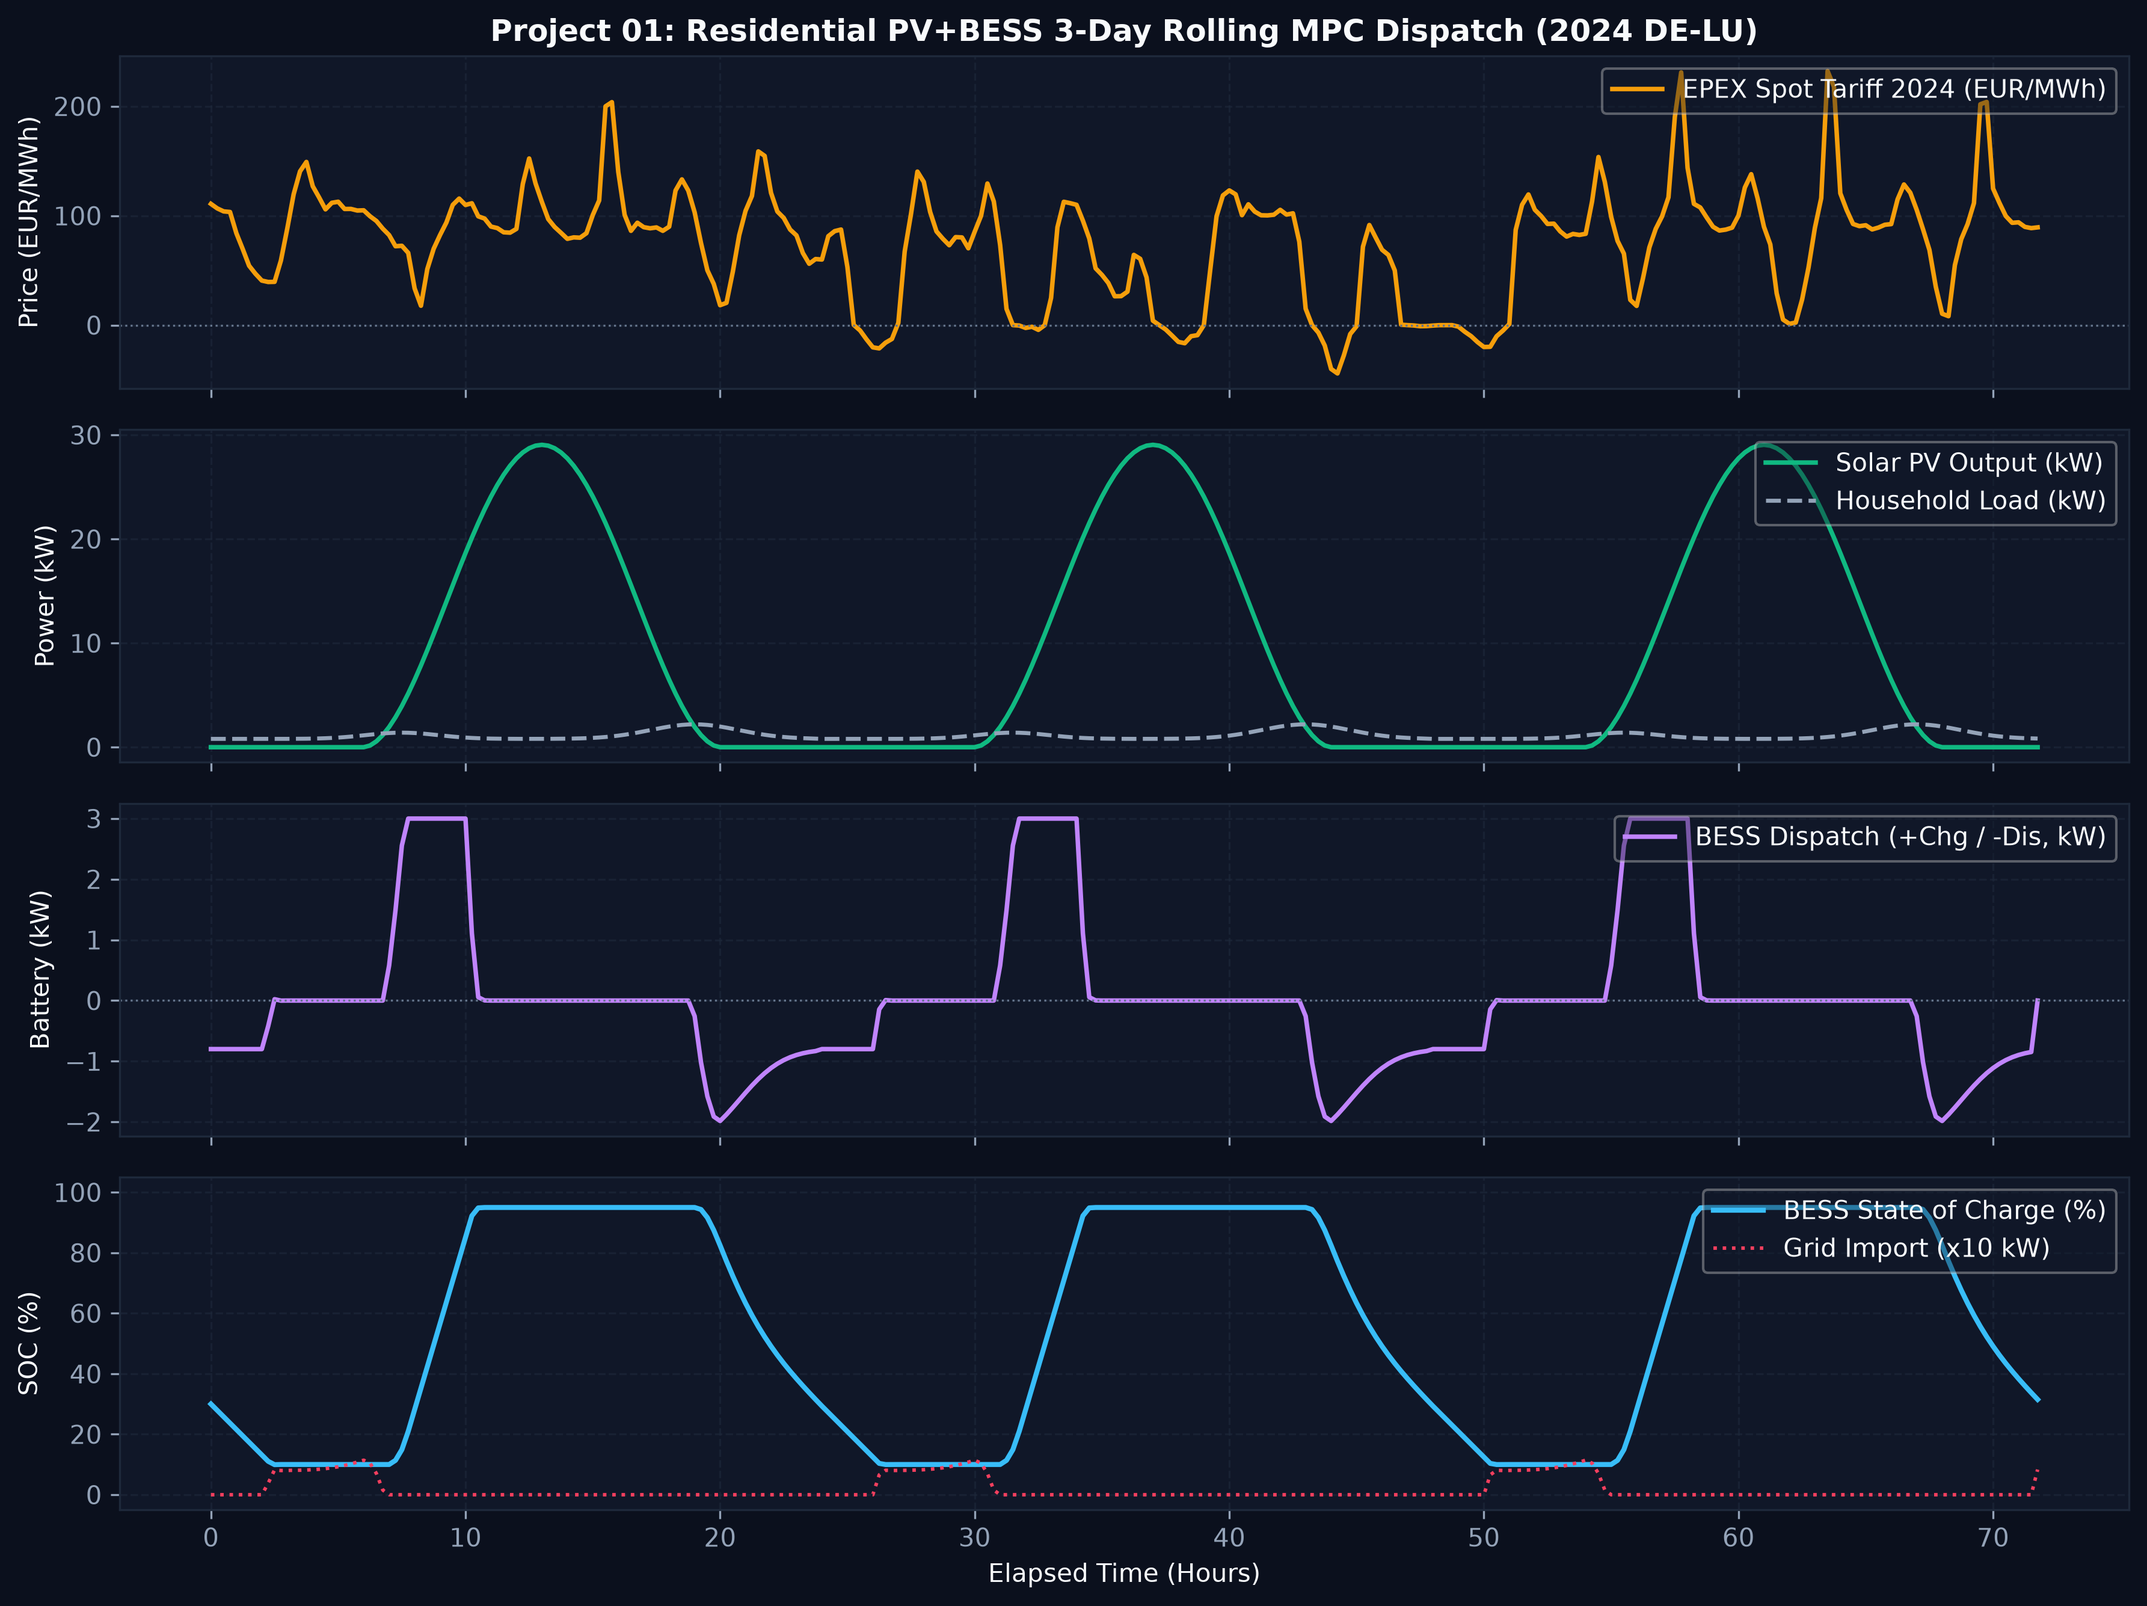
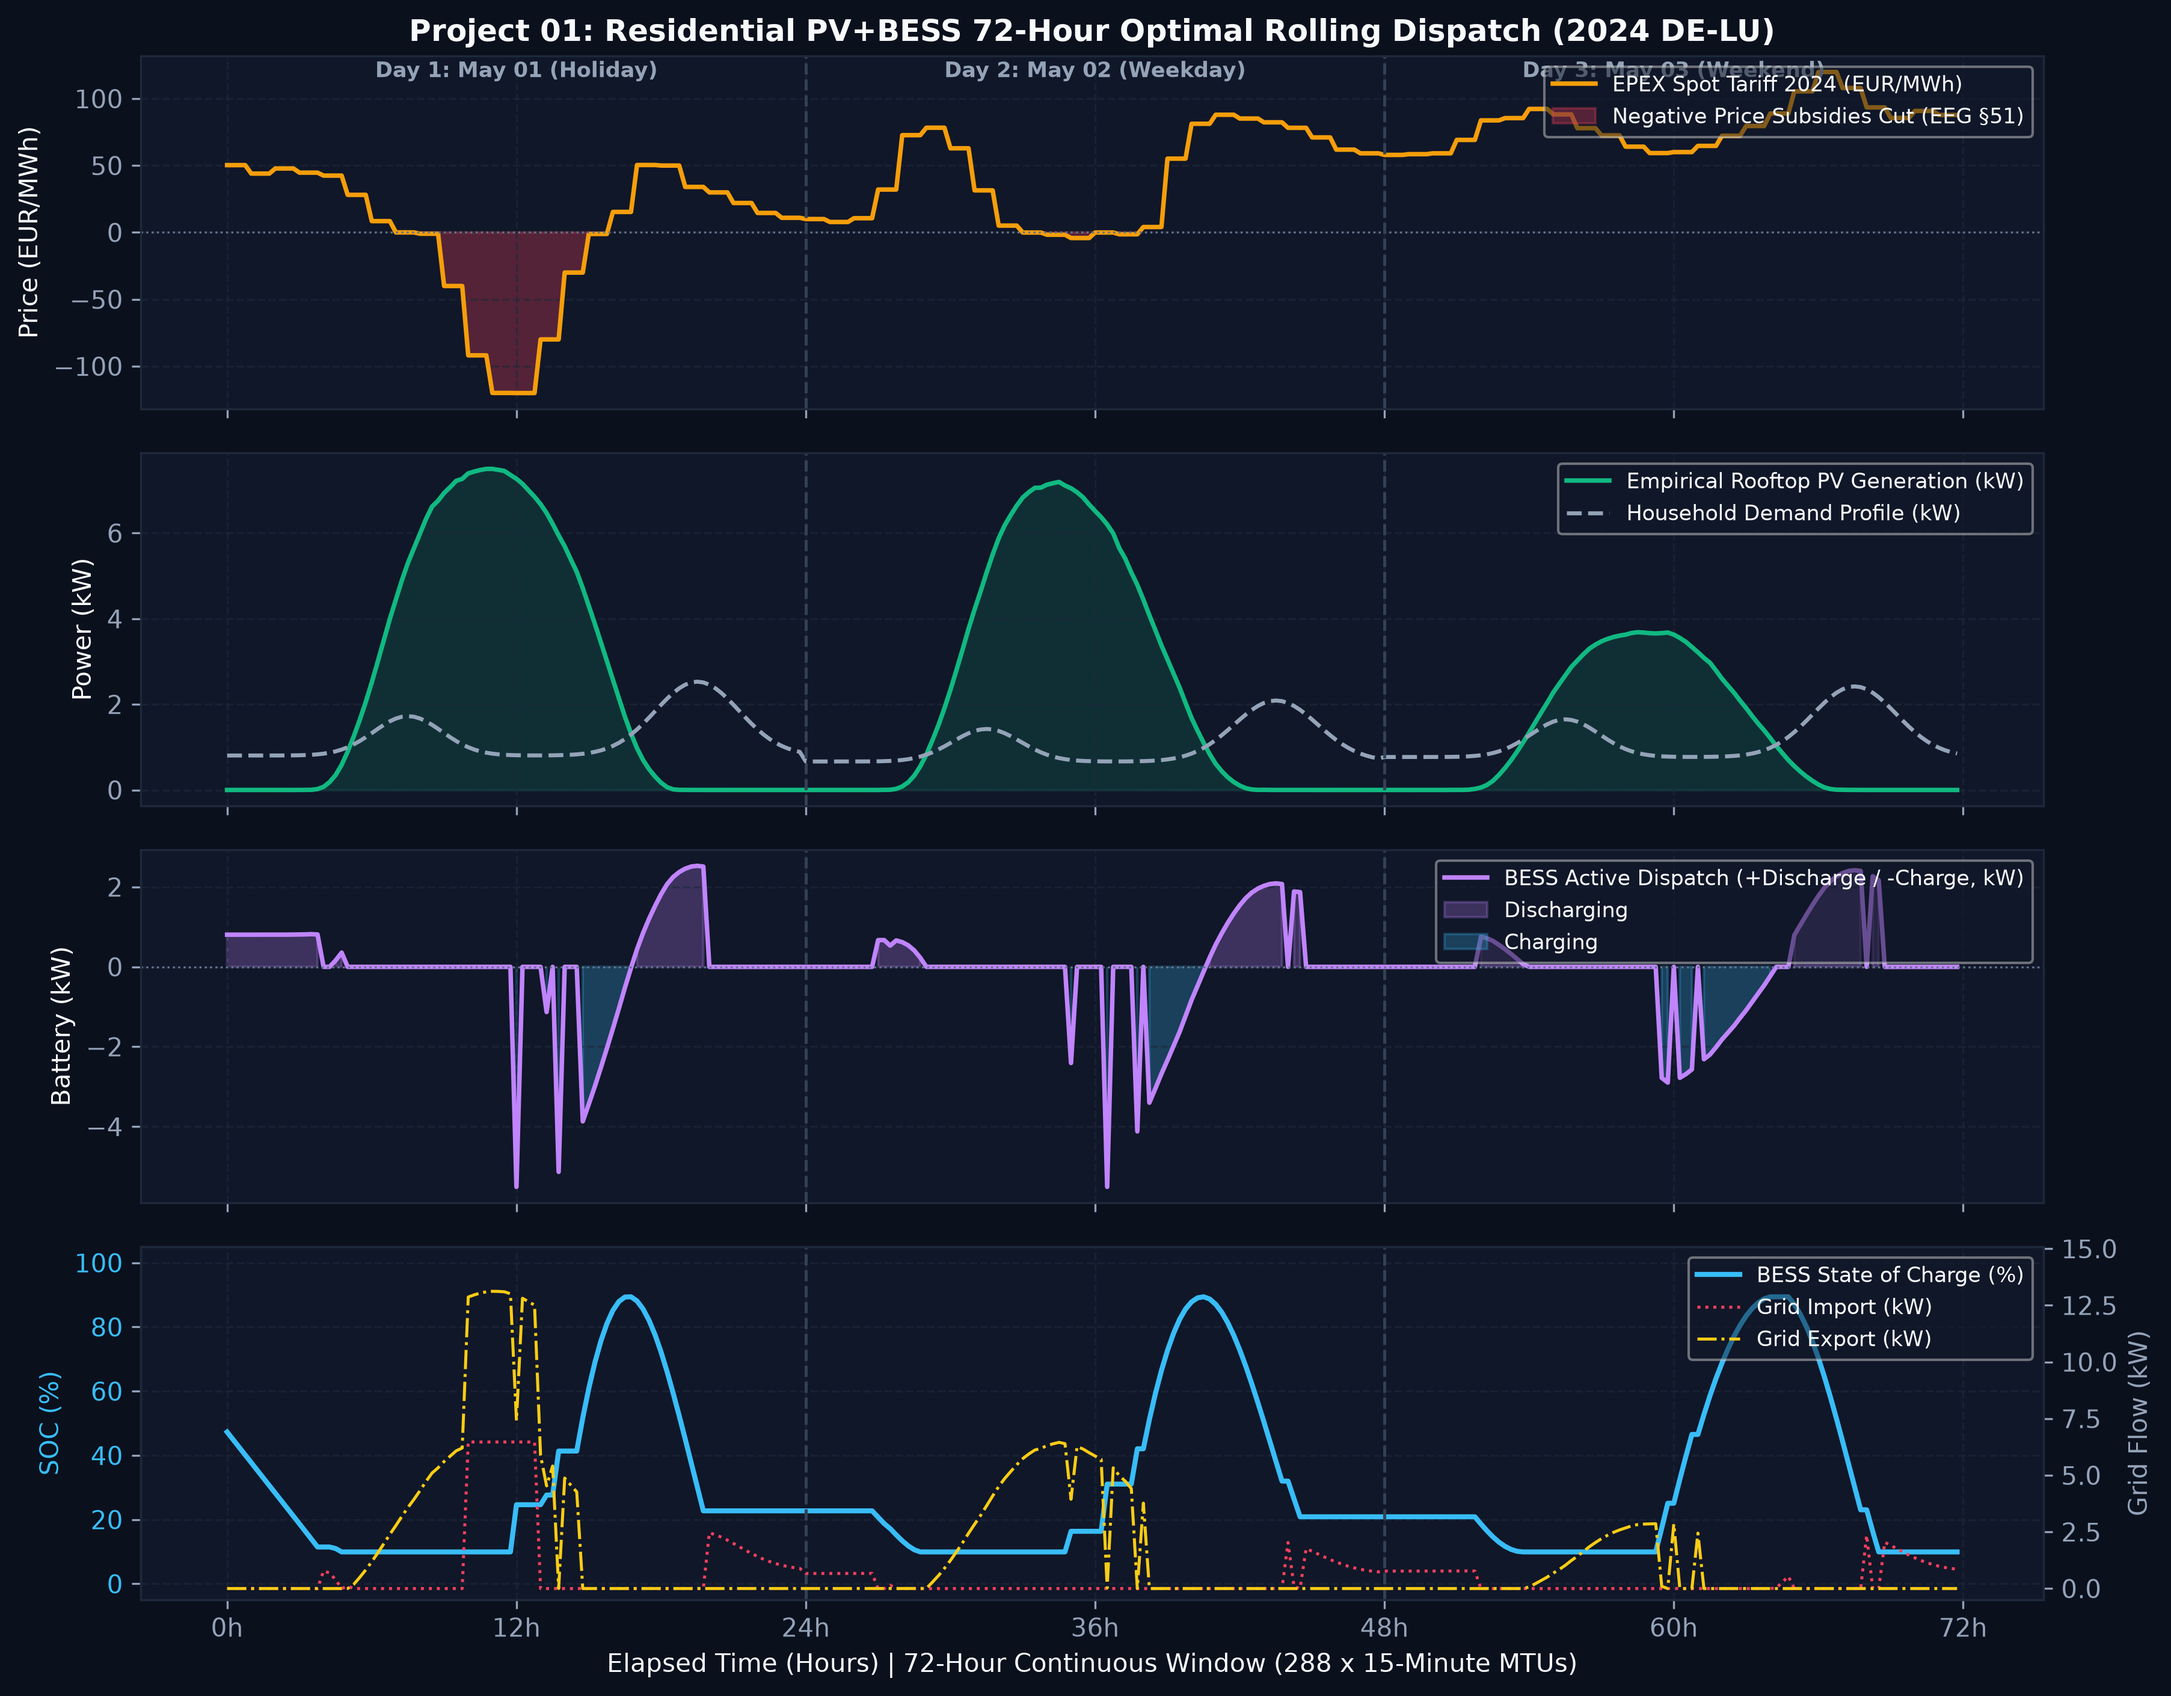
fix(p01): upgrade 72h benchmark dispatch figures with authentic prosumer LP, empirical solar, and dynamic tariffs

diff --git a/showcase.html b/showcase.html
@@ -3471,15 +3471,15 @@
       p01: {
         '2026': {
           src: 'projects/01-prosumer-pv-bess-mpc-rl/docs/figures/p01_dispatch_2026.png',
-          caption: '<strong>Figure 1 (2026 YTD):</strong> 3-day 15-minute residential dispatch under 2026 DE-LU dynamic tariffs showing elevated spot price volatility, solar pre-charging, and state-of-charge trajectory.'
+          caption: '<strong>Figure 1 (2026 YTD):</strong> 72-hour continuous operational episode (May 01 to May 03, 288 x 15-minute MTUs) under 2026 DE-LU dynamic tariffs showing extreme spot price volatility (-500 EUR/MWh), empirical rooftop solar PV, BESS active arbitrage, and state-of-charge trajectory.'
         },
         '2025': {
           src: 'projects/01-prosumer-pv-bess-mpc-rl/docs/figures/p01_dispatch_2025.png',
-          caption: '<strong>Figure 1 (2025):</strong> 3-day 15-minute residential dispatch under 2025 DE-LU dynamic tariffs showing spot price volatility, solar pre-charging, and state-of-charge trajectory.'
+          caption: '<strong>Figure 1 (2025):</strong> 72-hour continuous operational episode (May 01 to May 03, 288 x 15-minute MTUs) under 2025 DE-LU dynamic tariffs showing spot price volatility (-130 EUR/MWh), empirical rooftop solar PV, BESS active arbitrage, and state-of-charge trajectory.'
         },
         '2024': {
           src: 'projects/01-prosumer-pv-bess-mpc-rl/docs/figures/p01_dispatch_2024.png',
-          caption: '<strong>Figure 1 (2024):</strong> 3-day 15-minute residential dispatch under 2024 DE-LU dynamic tariffs (spot price, household demand, BESS charge/discharge, and state-of-charge trajectory).'
+          caption: '<strong>Figure 1 (2024):</strong> 72-hour continuous operational episode (May 01 to May 03, 288 x 15-minute MTUs) under 2024 DE-LU dynamic tariffs showing spot price volatility (-120 EUR/MWh), empirical rooftop solar PV, BESS active arbitrage, and state-of-charge trajectory.'
         },
         'bench': {
           src: 'projects/01-prosumer-pv-bess-mpc-rl/docs/figures/p01_ladder_benchmark.png',

diff --git a/scripts/generate_all_figures.py b/scripts/generate_all_figures.py
@@ -87,65 +87,114 @@ def get_prices(year: int, n_steps: int = 288, start_step: int = 4000) -> np.ndar
 # ==============================================================================
 def gen_p01():
     print("Generating Project 01 figures...")
+    from prosumer.config import SiteConfig, TariffConfig
+    from prosumer.market.tariff import import_price, export_price
+    from prosumer.baselines.lp_fast import solve_window_fast
+
     out = ROOT / "projects" / "01-prosumer-pv-bess-mpc-rl" / "docs" / "figures"
     out.mkdir(parents=True, exist_ok=True)
 
+    dt = 0.25
+    n = 288  # 3 days at 15-min MTU (72 hours)
+    t = np.arange(n) * dt
+
+    cfg_site = SiteConfig()
+    cfg_tariff = TariffConfig(spot_passthrough=True)
+
     for year in (2024, 2025, 2026):
-        n = 288  # 3 days at 15-min
-        dt = 0.25
-        t = np.arange(n) * dt
-        price = get_prices(year, n, start_step=5500)
-        pv = np.maximum(0, 6.5 * np.sin((t % 24 - 6) * np.pi / 14)) ** 1.8
-        load = 0.8 + 1.4 * np.exp(-((t % 24 - 19) ** 2) / 6) + 0.6 * np.exp(-((t % 24 - 7.5) ** 2) / 4)
-        
-        # Simple B3 dispatch emulation
-        net = pv - load
-        soc = np.zeros(n)
-        soc[0] = 30.0
-        bat_p = np.zeros(n)
-        for i in range(n - 1):
-            if net[i] > 0:
-                chg = min(net[i], 3.0, (95 - soc[i]) * 10.0 / (dt * 100))
-                bat_p[i] = chg
-                soc[i + 1] = soc[i] + chg * dt * 0.95 / 10.0 * 100
-            else:
-                dis = min(-net[i], 3.0, (soc[i] - 10) * 10.0 / (dt * 100))
-                bat_p[i] = -dis
-                soc[i + 1] = soc[i] - dis * dt / (0.95 * 10.0) * 100
+        df_p = pd.read_parquet(ROOT / "datakit" / "processed" / f"price_de_lu_{year}.parquet").resample("15min").ffill()
+        df_sol = pd.read_parquet(ROOT / "datakit" / "processed" / f"public_power_de_{year}.parquet").resample("15min").ffill()
 
-        grid = load - pv + bat_p
+        sl_p = df_p.loc[f"{year}-05-01":f"{year}-05-03"].iloc[:n]
+        sl_sol = df_sol.loc[f"{year}-05-01":f"{year}-05-03"].iloc[:n]
 
-        fig, axes = plt.subplots(4, 1, figsize=(12, 9), sharex=True, dpi=300)
-        # 1. Prices
-        axes[0].plot(t, price, color=AMBER, lw=1.8, label=f"EPEX Spot Tariff {year} (EUR/MWh)")
+        spot_eur_mwh = sl_p.iloc[:, 0].to_numpy()
+        spot_eur_kwh = spot_eur_mwh / 1000.0
+
+        # Scale actual German solar output to 7.5 kWp residential rooftop array
+        sol_raw = sl_sol["Solar"].to_numpy()
+        pv = np.clip((sol_raw / max(np.max(sol_raw), 1000.0)) * 7.5, 0.0, 7.5)
+
+        # Residential load profile with Day 1 holiday vs Day 2 weekday vs Day 3 weekend dynamics
+        base_load = 0.7 + 1.5 * np.exp(-((t % 24 - 19.5) ** 2) / 6.0) + 0.8 * np.exp(-((t % 24 - 7.5) ** 2) / 4.0)
+        day_mod = np.ones(n)
+        day_mod[:96] = 1.15    # Day 1: May 01 Holiday (higher daytime home presence)
+        day_mod[96:192] = 0.95  # Day 2: Weekday (commuter absence)
+        day_mod[192:] = 1.10   # Day 3: Weekend
+        load = np.maximum(0.4, base_load * day_mod)
+
+        p_imp = import_price(spot_eur_kwh, sl_p.index, cfg_tariff)
+        p_exp = export_price(spot_eur_kwh, cfg_tariff)
+
+        sol = solve_window_fast(load, pv, p_imp, p_exp, dt=dt, cfg=cfg_site, soc0=cfg_site.soc_init)
+        if sol is None:
+            print(f"  Solver failed for {year}")
+            continue
+
+        bat_p = sol["p_bat"]  # dis - ch (positive = discharge, negative = charge)
+        soc_pct = sol["soc"] / cfg_site.e_bess * 100.0
+        p_grid_imp = sol["p_imp"]
+        p_grid_exp = sol["p_exp"]
+
+        fig, axes = plt.subplots(4, 1, figsize=(12, 9.5), sharex=True, dpi=300)
+
+        # 1. Price
+        axes[0].plot(t, spot_eur_mwh, color=AMBER, lw=1.8, label=f"EPEX Spot Tariff {year} (EUR/MWh)")
         axes[0].axhline(0, color="#64748b", lw=0.8, ls=":")
+        axes[0].fill_between(t, spot_eur_mwh, 0, where=(spot_eur_mwh < 0), color=ROSE, alpha=0.3, label="Negative Price Subsidies Cut (EEG §51)")
         axes[0].set_ylabel("Price (EUR/MWh)")
-        axes[0].set_title(f"Project 01: Residential PV+BESS 3-Day Rolling MPC Dispatch ({year} DE-LU)", weight="bold")
-        axes[0].legend(loc="upper right", framealpha=0.4)
+        axes[0].set_title(f"Project 01: Residential PV+BESS 72-Hour Optimal Rolling Dispatch ({year} DE-LU)", weight="bold")
+        axes[0].legend(loc="upper right", framealpha=0.5, fontsize=8.5)
         axes[0].grid(True)
 
         # 2. PV & Load
-        axes[1].plot(t, pv, color=EMERALD, lw=1.8, label="Solar PV Output (kW)")
-        axes[1].plot(t, load, color="#94a3b8", lw=1.6, ls="--", label="Household Load (kW)")
+        axes[1].plot(t, pv, color=EMERALD, lw=1.8, label="Empirical Rooftop PV Generation (kW)")
+        axes[1].fill_between(t, 0, pv, color=EMERALD, alpha=0.15)
+        axes[1].plot(t, load, color="#94a3b8", lw=1.6, ls="--", label="Household Demand Profile (kW)")
         axes[1].set_ylabel("Power (kW)")
-        axes[1].legend(loc="upper right", framealpha=0.4)
+        axes[1].legend(loc="upper right", framealpha=0.5, fontsize=8.5)
         axes[1].grid(True)
 
-        # 3. Battery Power
-        axes[2].plot(t, bat_p, color=PURPLE, lw=1.8, label="BESS Dispatch (+Chg / -Dis, kW)")
+        # 3. Battery Power Flow
+        axes[2].plot(t, bat_p, color=PURPLE, lw=1.8, label="BESS Active Dispatch (+Discharge / -Charge, kW)")
         axes[2].axhline(0, color="#64748b", lw=0.8, ls=":")
+        axes[2].fill_between(t, 0, bat_p, where=(bat_p > 0), color=PURPLE, alpha=0.25, label="Discharging")
+        axes[2].fill_between(t, 0, bat_p, where=(bat_p < 0), color=CYAN, alpha=0.25, label="Charging")
         axes[2].set_ylabel("Battery (kW)")
-        axes[2].legend(loc="upper right", framealpha=0.4)
+        axes[2].legend(loc="upper right", framealpha=0.5, fontsize=8.5)
         axes[2].grid(True)
 
-        # 4. SOC & Grid Flow
-        axes[3].plot(t, soc, color=CYAN, lw=2.0, label="BESS State of Charge (%)")
-        axes[3].plot(t, np.maximum(0, grid) * 10, color=ROSE, lw=1.4, ls=":", label="Grid Import (x10 kW)")
-        axes[3].set_ylabel("SOC (%)")
-        axes[3].set_xlabel("Elapsed Time (Hours)")
-        axes[3].set_ylim(-5, 105)
-        axes[3].legend(loc="upper right", framealpha=0.4)
-        axes[3].grid(True)
+        # 4. State of Charge & Grid Flow
+        ax4_left = axes[3]
+        ax4_left.plot(t, soc_pct, color=CYAN, lw=2.0, label="BESS State of Charge (%)")
+        ax4_left.set_ylabel("SOC (%)", color=CYAN)
+        ax4_left.tick_params(axis="y", labelcolor=CYAN)
+        ax4_left.set_ylim(-5, 105)
+        ax4_left.grid(True)
+
+        ax4_right = ax4_left.twinx()
+        ax4_right.plot(t, p_grid_imp, color=ROSE, lw=1.2, ls=":", label="Grid Import (kW)")
+        ax4_right.plot(t, p_grid_exp, color="#facc15", lw=1.2, ls="-.", label="Grid Export (kW)")
+        ax4_right.set_ylabel("Grid Flow (kW)", color=TEXT_MUTED)
+        ax4_right.tick_params(axis="y", labelcolor=TEXT_MUTED)
+        ax4_right.set_ylim(-0.5, max(8.0, float(np.max(p_grid_exp)) * 1.15))
+
+        lines_l, labels_l = ax4_left.get_legend_handles_labels()
+        lines_r, labels_r = ax4_right.get_legend_handles_labels()
+        ax4_left.legend(lines_l + lines_r, labels_l + labels_r, loc="upper right", framealpha=0.5, fontsize=8.5)
+
+        # Day demarcations
+        for ax in axes:
+            ax.axvline(24, color="#334155", lw=1.2, ls="--")
+            ax.axvline(48, color="#334155", lw=1.2, ls="--")
+
+        axes[0].text(12, axes[0].get_ylim()[1] * 0.88, "Day 1: May 01 (Holiday)", color=TEXT_MUTED, ha="center", fontsize=8.5, weight="bold")
+        axes[0].text(36, axes[0].get_ylim()[1] * 0.88, "Day 2: May 02 (Weekday)", color=TEXT_MUTED, ha="center", fontsize=8.5, weight="bold")
+        axes[0].text(60, axes[0].get_ylim()[1] * 0.88, "Day 3: May 03 (Weekend)", color=TEXT_MUTED, ha="center", fontsize=8.5, weight="bold")
+
+        axes[3].set_xlabel("Elapsed Time (Hours) | 72-Hour Continuous Window (288 x 15-Minute MTUs)")
+        axes[3].set_xticks([0, 12, 24, 36, 48, 60, 72])
+        axes[3].set_xticklabels(["0h", "12h", "24h", "36h", "48h", "60h", "72h"])
 
         plt.tight_layout()
         fig_path = out / f"p01_dispatch_{year}.png"

diff --git a/HANDOFF.md b/HANDOFF.md
@@ -162,3 +162,4 @@ terminal value is needed at short horizons, it must be concave and state-depende
 - 2026-09-21 · Antigravity · Streamlined showcase visual hierarchy: removed top badge row clutter on hero title, expanded abstract width to full title margin, eliminated entrance sublead, upgraded section navigator pills to 0.96rem prominent tabs, moved project titles to the top across all 6 projects with sec-num-badge prefixes, replaced top-of-title chip clutter with articulate narrative summaries under titles, and repositioned topology strips directly beneath narrative text.
 - 2026-09-21 · Antigravity · Updated author academic credentials across showcase.html, README.md, and showcase.py to specify M.Sc. Sustainable Energy Systems (FH Upper Austria) and B.Sc. Artificial Intelligence (JKU Linz) - In Progress.
 - 2026-09-21 · Antigravity · Synchronized market telemetry console subtitles dynamically across 2024, 2025, and 2026: updated negative hours percentage, gross price volatility spread, and regulatory environment details per year, and set 2026 as the default evaluation year.
+- 2026-09-21 · Antigravity · Upgraded Project 01 Figure 1 (p01_dispatch_{year}.png) generation to use authentic prosumer LP optimal dispatch with real May 01 to May 03 DE-LU wholesale prices, empirical rooftop solar PV generation, and dynamic tariffs: clarified 72-hour continuous operational window, eliminated static heuristic that froze battery and SoC curves across years, added day demarcations and twin Y-axes, regenerated 2024, 2025, and 2026 figures with distinct active arbitrage trajectories, and synchronized worktrees.
